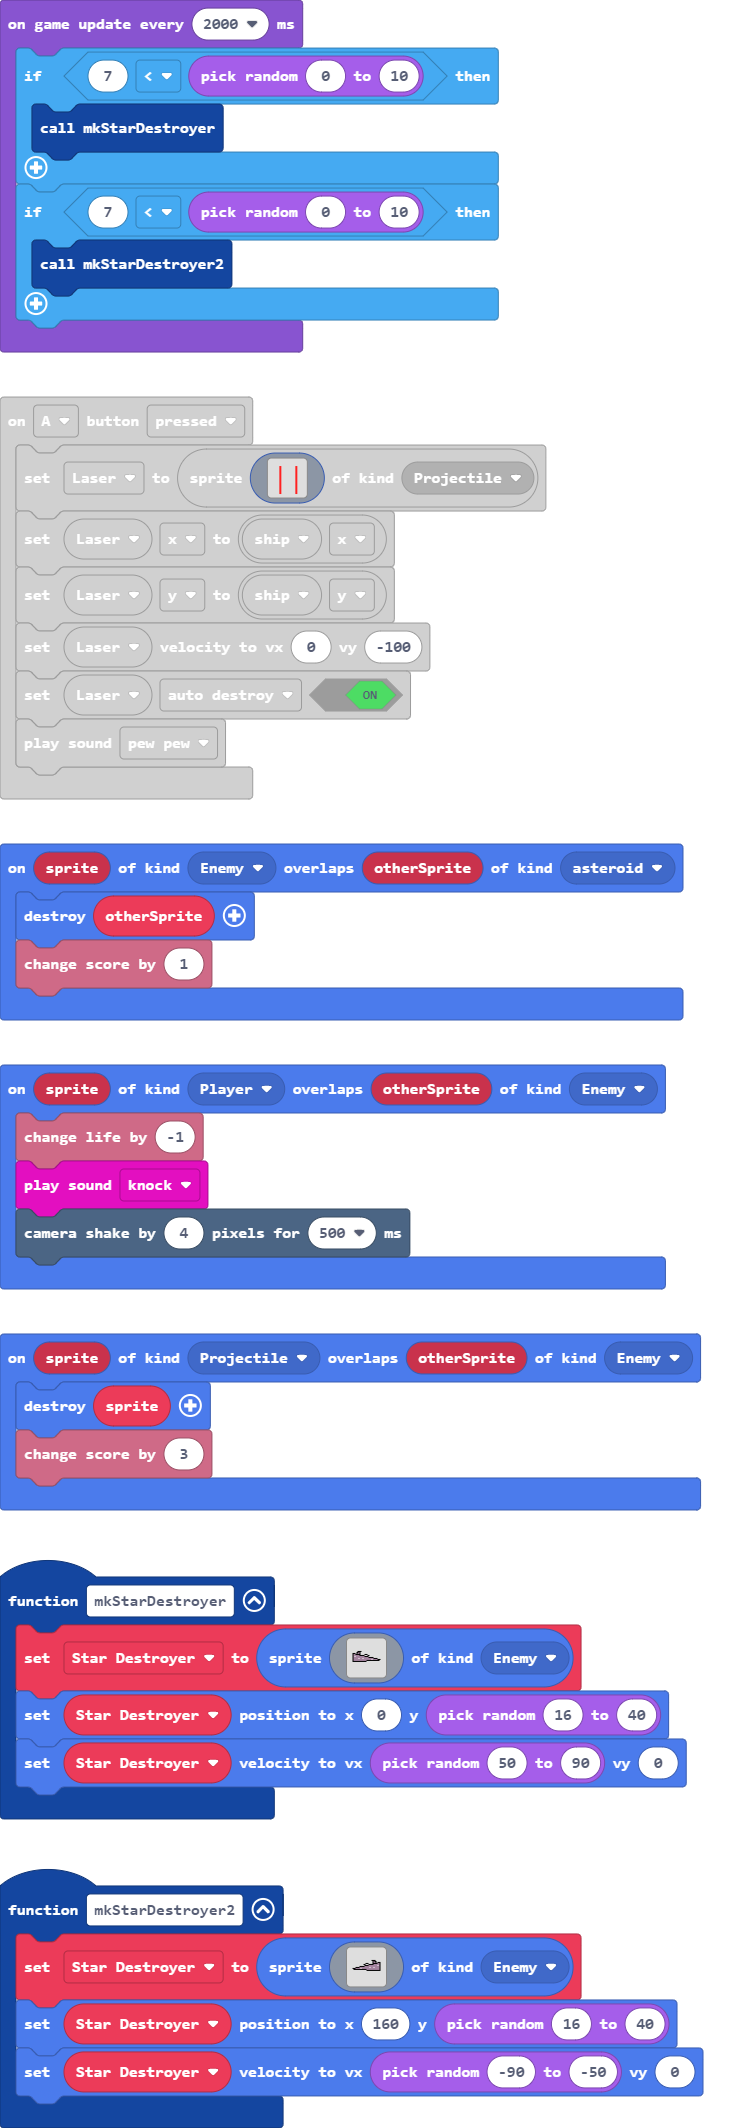
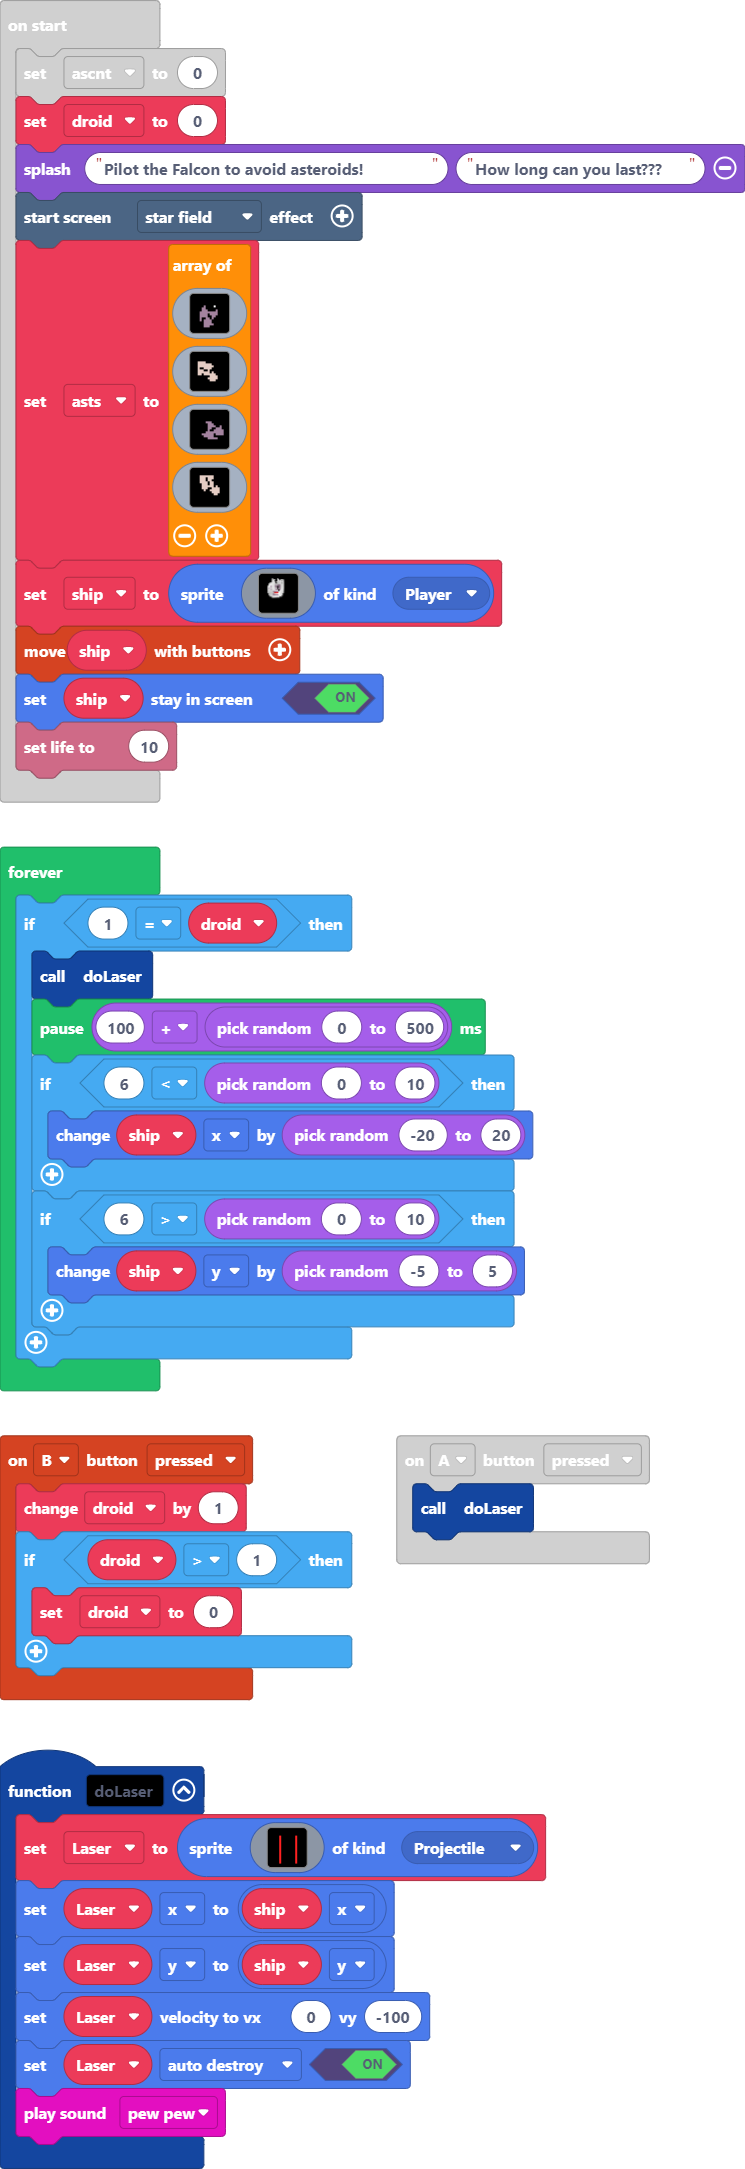
added droid function

diff --git a/main.ts b/main.ts
@@ -1,5 +1,6 @@
 namespace SpriteKind {
     export const asteroid = SpriteKind.create()
+    export const Text = SpriteKind.create()
 }
 function mkStarDestroyer () {
     Star_Destroyer = sprites.create(img`
@@ -23,7 +24,31 @@ function mkStarDestroyer () {
     Star_Destroyer.setPosition(0, randint(16, 40))
     Star_Destroyer.setVelocity(randint(50, 90), 0)
 }
+controller.B.onEvent(ControllerButtonEvent.Pressed, function () {
+    droid += 1
+    if (droid > 1) {
+        droid = 0
+    }
+})
 controller.A.onEvent(ControllerButtonEvent.Pressed, function () {
+    doLaser()
+})
+sprites.onOverlap(SpriteKind.Player, SpriteKind.asteroid, function (sprite, otherSprite) {
+    info.changeLifeBy(-1)
+    otherSprite.destroy()
+    music.knock.play()
+    scene.cameraShake(4, 500)
+})
+sprites.onOverlap(SpriteKind.Enemy, SpriteKind.asteroid, function (sprite, otherSprite) {
+    otherSprite.destroy()
+    info.changeScoreBy(1)
+})
+sprites.onOverlap(SpriteKind.asteroid, SpriteKind.asteroid, function (sprite, otherSprite) {
+    sprite.destroy()
+    otherSprite.destroy()
+    info.changeScoreBy(1)
+})
+function doLaser () {
     Laser = sprites.create(img`
         . . . . . . . . . . . . . . . . 
         . . . . . . . . . . . . . . . . 
@@ -47,22 +72,7 @@ controller.A.onEvent(ControllerButtonEvent.Pressed, function () {
     Laser.setVelocity(0, -100)
     Laser.setFlag(SpriteFlag.AutoDestroy, true)
     music.pewPew.play()
-})
-sprites.onOverlap(SpriteKind.Player, SpriteKind.asteroid, function (sprite, otherSprite) {
-    info.changeLifeBy(-1)
-    otherSprite.destroy()
-    music.knock.play()
-    scene.cameraShake(4, 500)
-})
-sprites.onOverlap(SpriteKind.Enemy, SpriteKind.asteroid, function (sprite, otherSprite) {
-    otherSprite.destroy()
-    info.changeScoreBy(1)
-})
-sprites.onOverlap(SpriteKind.asteroid, SpriteKind.asteroid, function (sprite, otherSprite) {
-    sprite.destroy()
-    otherSprite.destroy()
-    info.changeScoreBy(1)
-})
+}
 function mkStarDestroyer2 () {
     Star_Destroyer = sprites.create(img`
         ................................
@@ -104,7 +114,9 @@ let pause2 = 0
 let Laser: Sprite = null
 let Star_Destroyer: Sprite = null
 let ship: Sprite = null
+let droid = 0
 let ascnt = 0
+droid = 0
 game.splash("Pilot the Falcon to avoid asteroids! ", "How long can you last???")
 effects.starField.startScreenEffect()
 let asts = [
@@ -169,4 +181,16 @@ forever(function () {
     mySprite.setPosition(randint(0, 160), randint(0, 120))
     mySprite.setVelocity(randint(-60, 60), randint(-60, 60))
     ascnt += 1
+})
+forever(function () {
+    if (1 == droid) {
+        doLaser()
+        pause(100 + randint(0, 500))
+        if (6 < randint(0, 10)) {
+            ship.x += randint(-20, 20)
+        }
+        if (6 > randint(0, 10)) {
+            ship.y += randint(-5, 5)
+        }
+    }
 })

diff --git a/images.g.ts b/images.g.ts
@@ -98,6 +98,25 @@ f f d d f d d d d d d f f . . .
 . . . . . . . . . . . . . . . . 
 . . . . . . . . . . . . . . . . 
 `;
+            case "image6":
+            case "myImage0":return img`
+. . . . . . . . . . . . . . . . 
+. . . . . . . . . . . . . . . . 
+. . . . . . . . . . . . . . . . 
+. . . . . . . . . . . . . . . . 
+. . . . . . . . . . . . . . . . 
+. . . . . . . . . . . . . . . . 
+. . . . . . . . . . . . . . . . 
+. . . . . . . . . . . . . . . . 
+. . . . . . . . . . . . . . . . 
+. . . . . . . . . . . . . . . . 
+. . . . . . . . . . . . . . . . 
+. . . . . . . . . . . . . . . . 
+. . . . . . . . . . . . . . . . 
+. . . . . . . . . . . . . . . . 
+. . . . . . . . . . . . . . . . 
+. . . . . . . . . . . . . . . . 
+`;
         }
         return null;
     })
